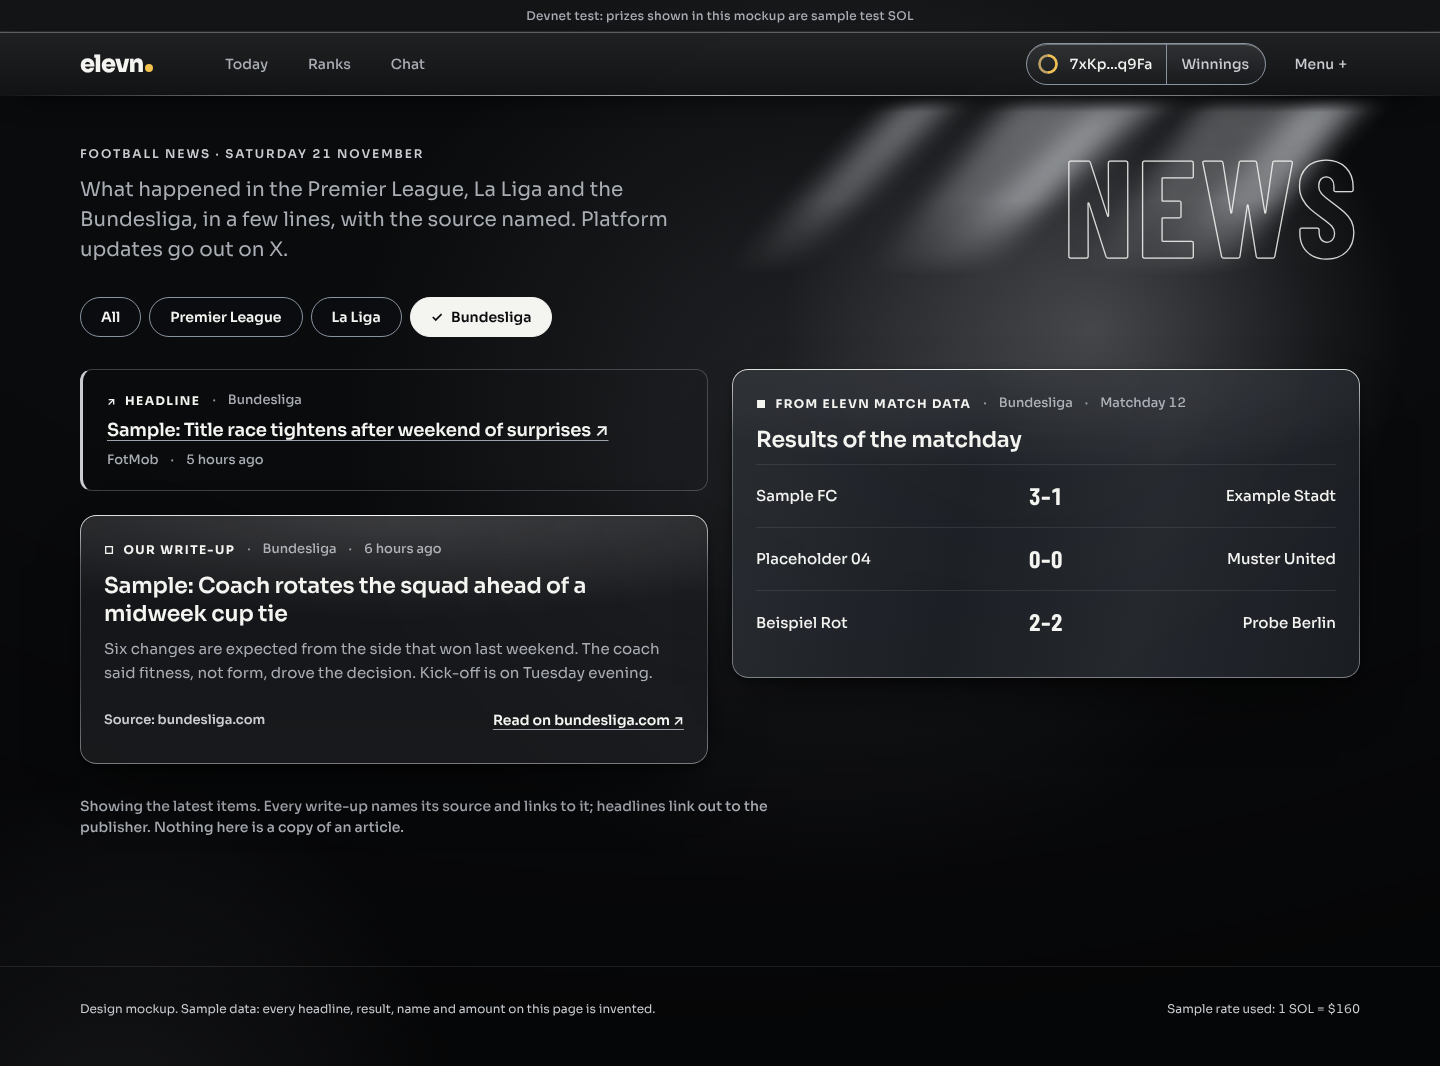
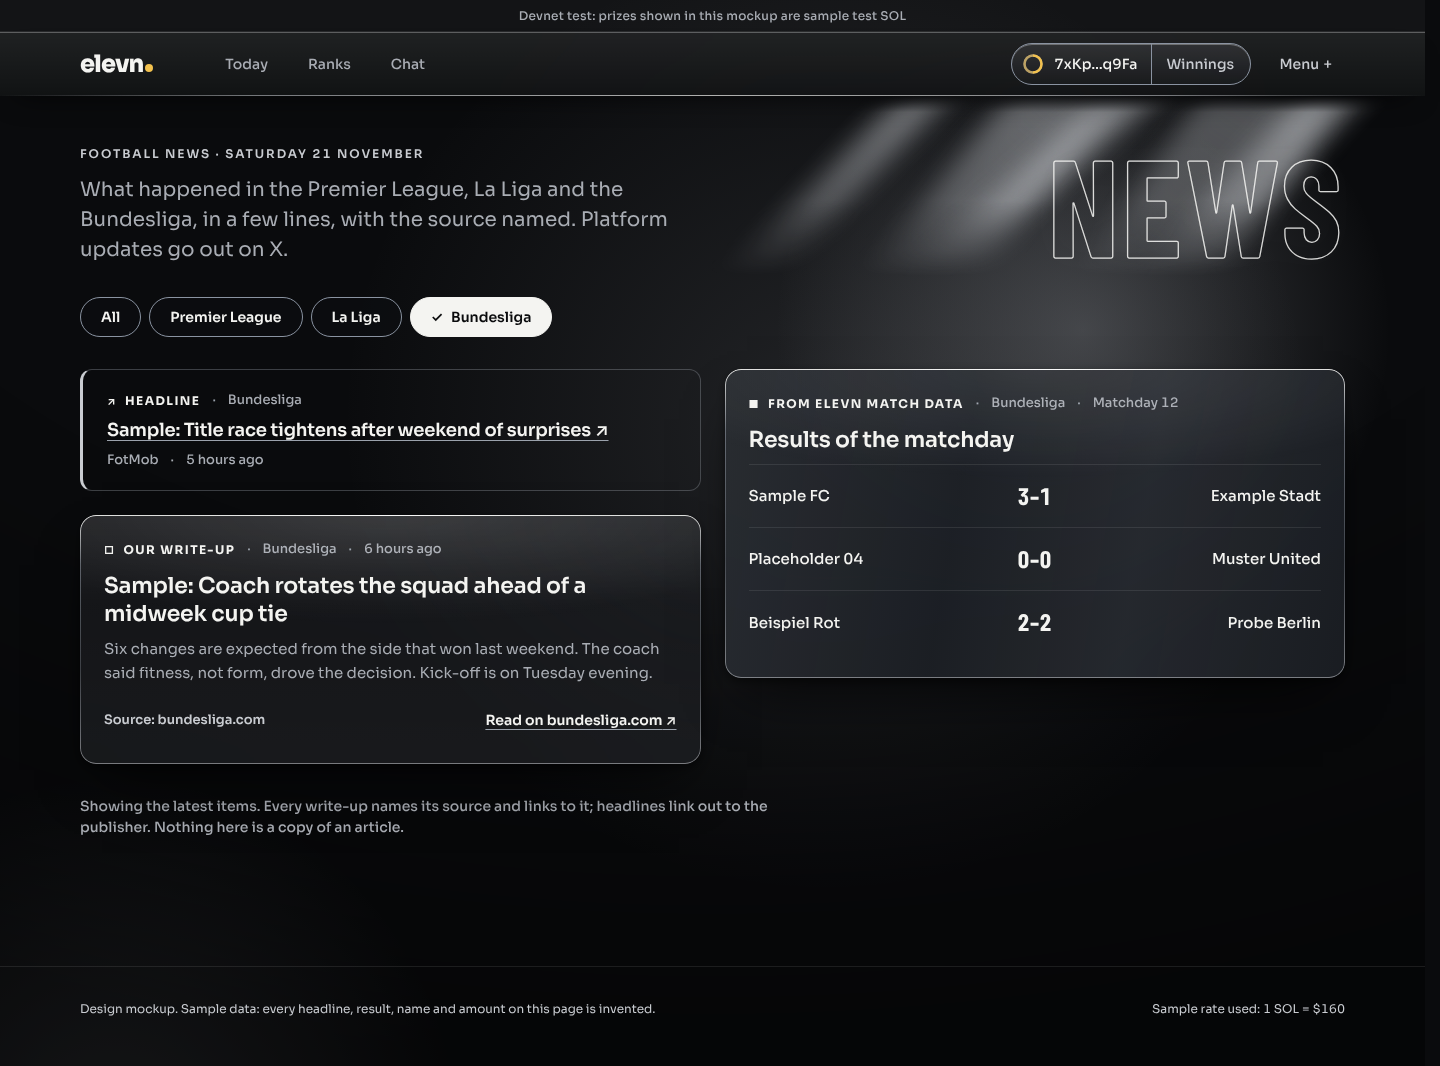
News and How to play: apply review changes, side menu, filter reflow
Claude-Session: https://claude.ai/code/session_012GbKymxq8Mwy7J7Kp4CrmR

diff --git a/docs/design/mockups/how-to-play.html b/docs/design/mockups/how-to-play.html
@@ -39,7 +39,7 @@
 <div class="hw-v"><div class="hw-pk"><img src="art/pack.png" alt="A Draft pack" width="84" height="126"><div class="hw-pos" aria-label="Positions needed"><span class="pos">DEF</span><span class="pos">MID</span><span class="pos">ATT</span><span class="small muted">at least 1 of each</span></div></div></div></li>
 
 <li class="hw-step" id="s6"><span class="hw-n" aria-hidden="true">6</span>
-<div class="hw-t"><h2 class="h3">Prizes: every board pays the top 5</h2><p class="muted">Blitz daily, the fixed $500 Blitz weekly prize <span class="usd" style="margin-left:0">3.13 SOL</span> and Draft weekly. Prizes are in SOL. Results are final 15 minutes after the day's last match.</p></div>
+<div class="hw-t"><h2 class="h3">Prizes: every board pays the top 5</h2><p class="muted">Blitz matchday, the fixed $500 Blitz weekly prize <span class="usd" style="margin-left:0">3.13 SOL</span> and Draft weekly. Prizes are in SOL. Results are final 15 minutes after the day's last match.</p></div>
 <div class="hw-v"><div class="hw-split" role="img" aria-label="Prize split: 1st 50 percent, 2nd 25, 3rd 12, 4th 8, 5th 5">
 <div class="bar"><i style="flex:50"></i><i style="flex:25"></i><i style="flex:12"></i><i style="flex:8"></i><i style="flex:5"></i></div>
 <div class="lab"><span style="flex:50"><b>1st</b> 50%</span><span style="flex:25"><b>2nd</b> 25%</span><span style="flex:12"><b>3rd</b> 12%</span><span style="flex:8"><b>4th</b> 8%</span><span style="flex:5"><b>5th</b> 5%</span></div></div></div></li>

diff --git a/docs/design/LESSONS.md b/docs/design/LESSONS.md
@@ -176,3 +176,7 @@ Reporting
 ## 2026-11-18 · menu agent · review fixes
 - Changed: the panel showed colour from the page because `var(--glass)` already contains its own translucent colour layer, so a solid fill placed after it was ignored; used an explicit gradient over a solid #0b0c0e. Also removed what the bar already shows (wallet block, Winnings, MENU title), locked page scroll, made the button icon-only at 390, and fixed three shared faults (rays under reduced motion, 38px bar targets, wrong current tab on Shootout/Connect).
 - Rule for next time: a token that bundles several background layers cannot be reused as one layer; and check with pixel samples, not by eye, that a panel is really opaque.
+
+## 2026-11-18 · info-news agent · review changes to News and How to play
+- Changed: filtered news lopsided because items sat in two fixed columns (now one CSS-columns flow); lead text sat on a ray (44ch cap, 30ch at 1024; measured 7.65:1 at 1440, 7.75:1 at 1024 on rendered pixels); gold used for plain rank numbers (now steel); fact cards repeated steps 1 and 3 (removed); "daily"/"a day" used for the Blitz rhythm (now matchday).
+- Rule for next time: lists that can be filtered use one flow, never hand-split columns; gold only means a paid place or the captain; measure lead contrast at 1024 as well as 1440.
